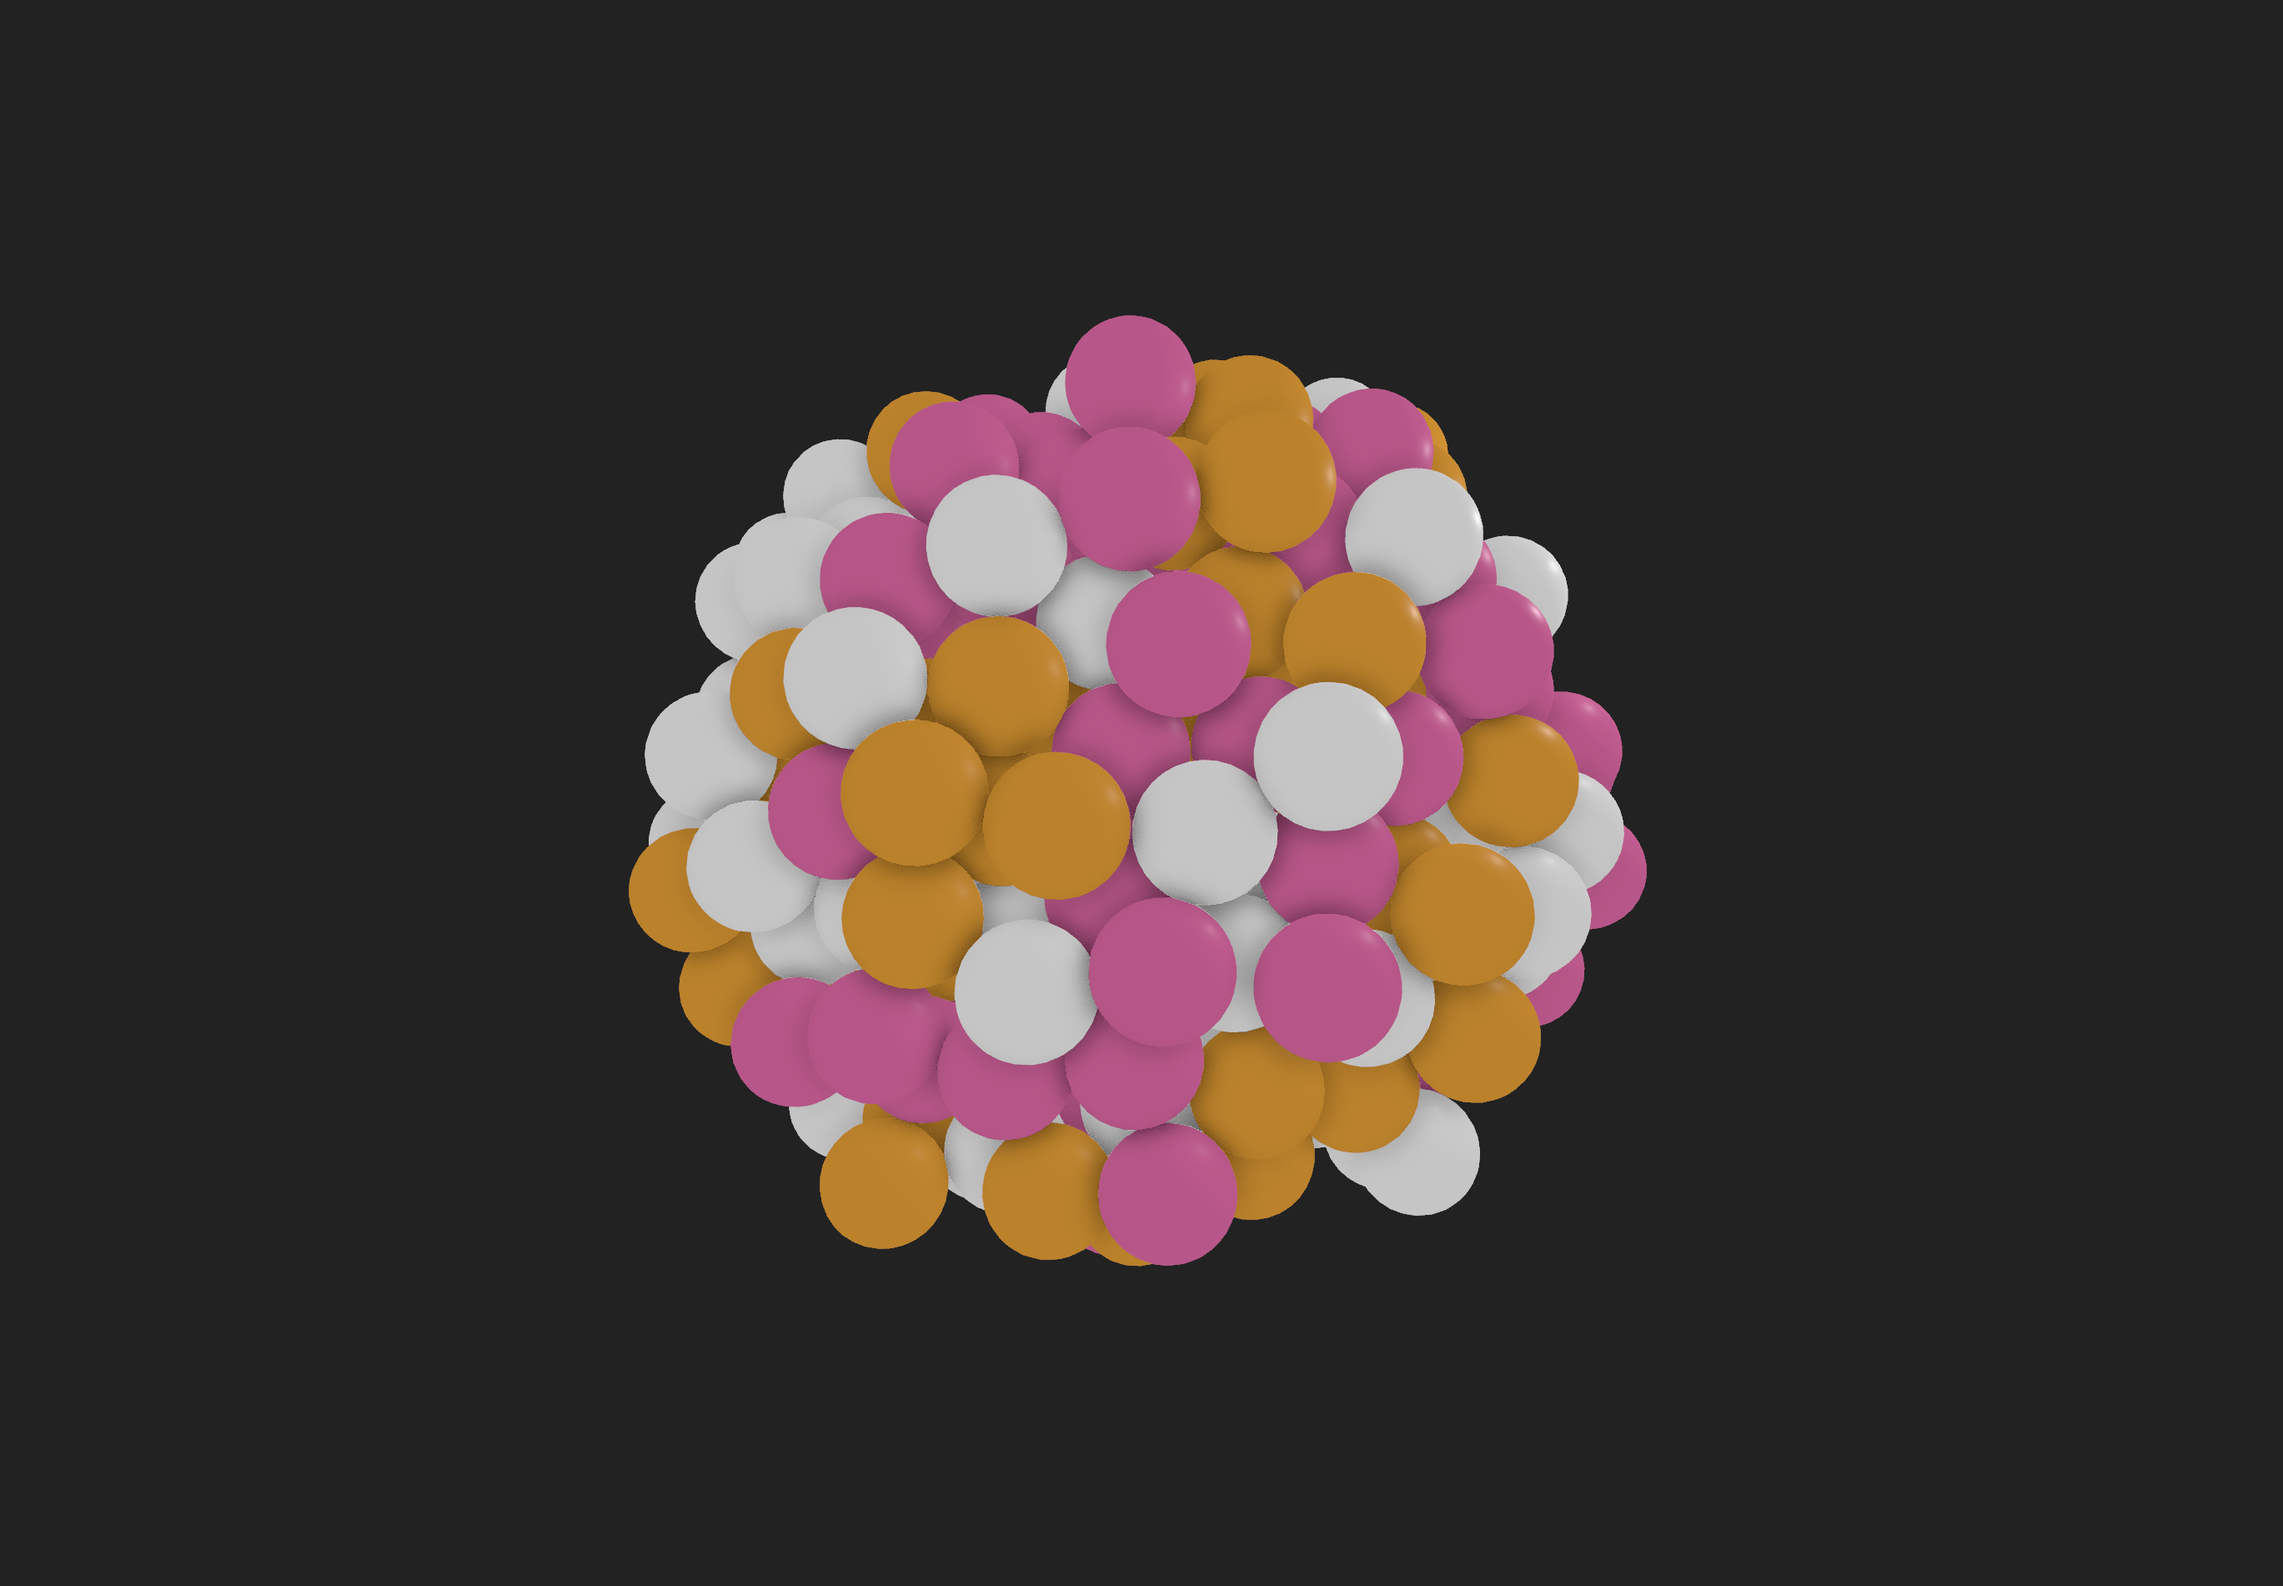
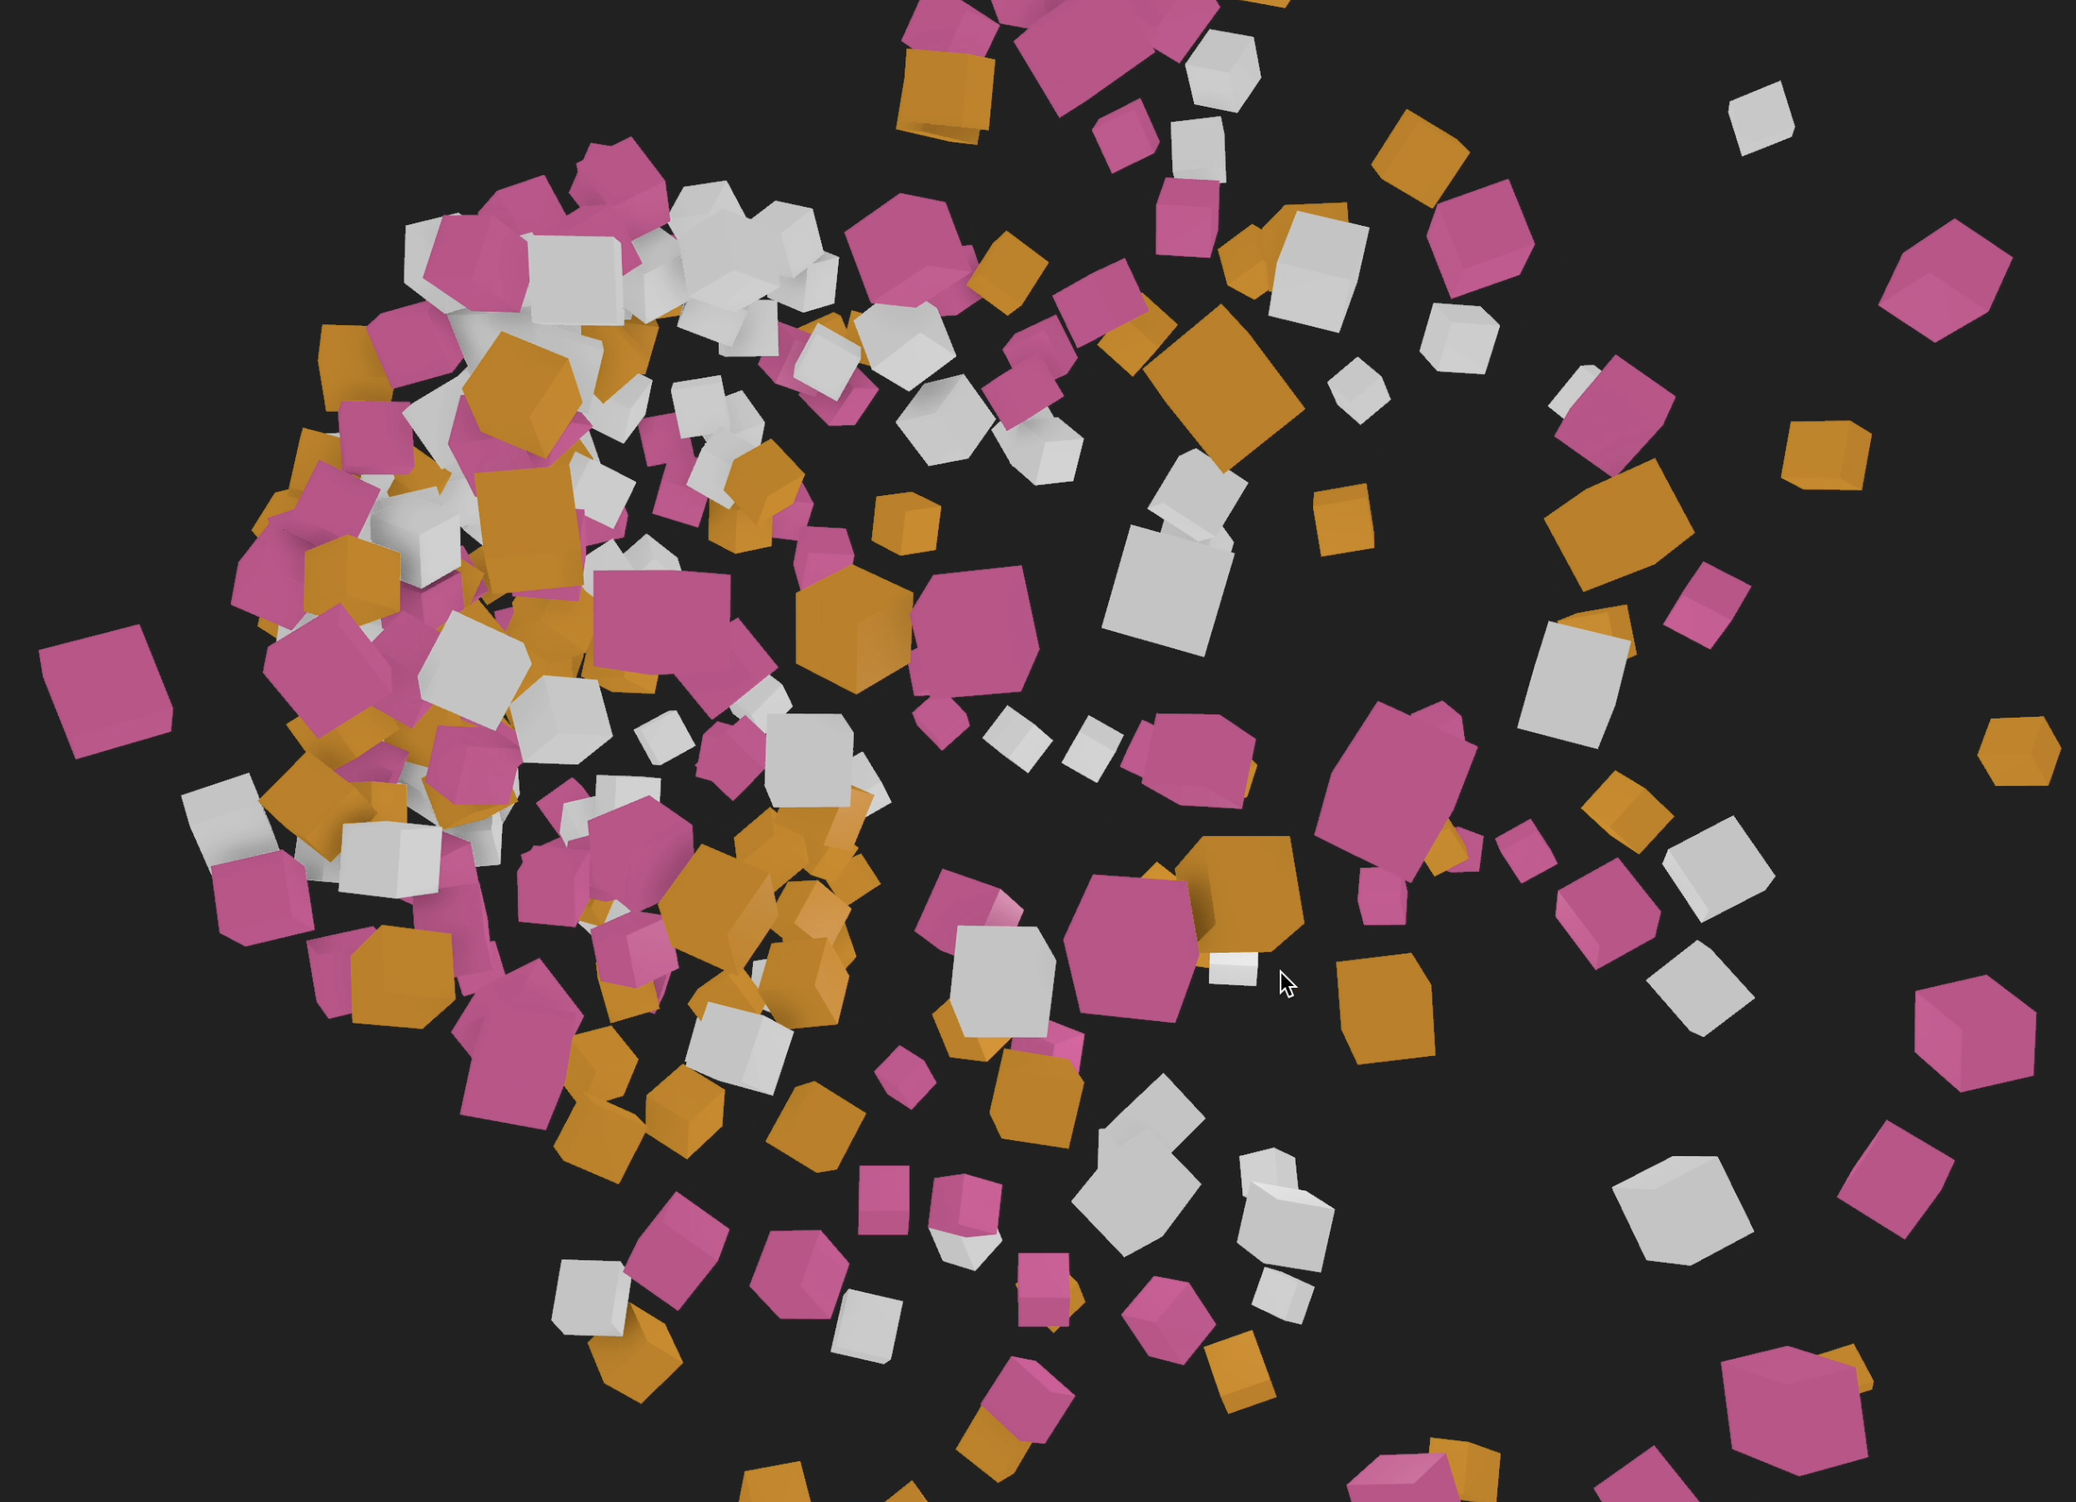
feat: rapier cluster sketch tweaks

diff --git a/src/sketches/rapier/cluster/index.sketch.tsx b/src/sketches/rapier/cluster/index.sketch.tsx
@@ -29,11 +29,10 @@ const size = 1
 const colors = ['orange', 'hotpink', '#fff']
 
 const pointOfGravity = new THREE.Vector3(0, 0, 0)
-let pointOfGravityIntensity = 0.2
+let pointOfGravityIntensity = 0.1
 
 const Cluster = () => {
     const api = useRef<RapierRigidBody[]>(null)
-
     const ref = useRef<InstancedMesh>(null)
 
     useBeforePhysicsStep(() => {
@@ -54,18 +53,28 @@ const Cluster = () => {
     }, [])
 
     const instances = useMemo(() => {
-        return Array.from({ length: N }, (_, i) => ({
-            key: i,
-            position: [randomBetween(-100, 100), randomBetween(-100, -200), randomBetween(10, -10)] as THREE.Vector3Tuple,
-            linearVelocity: [randomBetween(0, 0), randomBetween(0, 800), randomBetween(0, 0)] as THREE.Vector3Tuple,
-        }))
+        return Array.from({ length: N }, (_, i) => {
+            const side = Math.random() > 0.5 ? 1 : -1
+
+            return {
+                key: i,
+                position: [side * randomBetween(50, 100), randomBetween(-50, 50), randomBetween(10, -10)] as THREE.Vector3Tuple,
+            }
+        })
     }, [])
 
     return (
         <group>
-            <InstancedRigidBodies ref={api} instances={instances} colliders="ball" linearDamping={4} friction={0.1}>
-                <instancedMesh ref={ref} args={[undefined, undefined, N]} castShadow frustumCulled={false}>
-                    <sphereGeometry args={[size]} />
+            <InstancedRigidBodies
+                ref={api}
+                instances={instances}
+                colliders="cuboid"
+                linearDamping={4}
+                angularDamping={10}
+                friction={0.5}
+            >
+                <instancedMesh ref={ref} args={[undefined, undefined, N]} frustumCulled={false}>
+                    <boxGeometry args={[size, size, size]} />
                     <meshPhysicalMaterial roughness={0.4} />
                 </instancedMesh>
             </InstancedRigidBodies>
@@ -83,6 +92,8 @@ const Pointer = ({ vec = new THREE.Vector3() }) => {
     })
 
     useFrame(({ pointer, viewport }) => {
+        if (pointer.x === 0 && pointer.y === 0) return
+
         if (pointerDown) {
             pointOfGravity.set((pointer.x * viewport.width) / 2, (pointer.y * viewport.height) / 2, 0)
             pointOfGravityIntensity = 0.3
@@ -118,7 +129,7 @@ const Pointer = ({ vec = new THREE.Vector3() }) => {
         <RigidBody position={[1000, 1000, 1000]} type="kinematicPosition" colliders={false} mass={2} ref={rigidBody}>
             <BallCollider args={[4]} />
 
-            <animated.pointLight decay={1} intensity={intensity} castShadow />
+            <animated.pointLight decay={1} intensity={intensity} />
         </RigidBody>
     )
 }
@@ -133,6 +144,7 @@ export default function Sketch() {
                     <Pointer />
 
                     <ambientLight intensity={1.75} />
+                    <pointLight position={[15, -5, 15]} decay={1} intensity={2} />
 
                     <EffectComposer enableNormalPass={false} multisampling={8}>
                         <N8AO distanceFalloff={1} aoRadius={1} intensity={1} />
